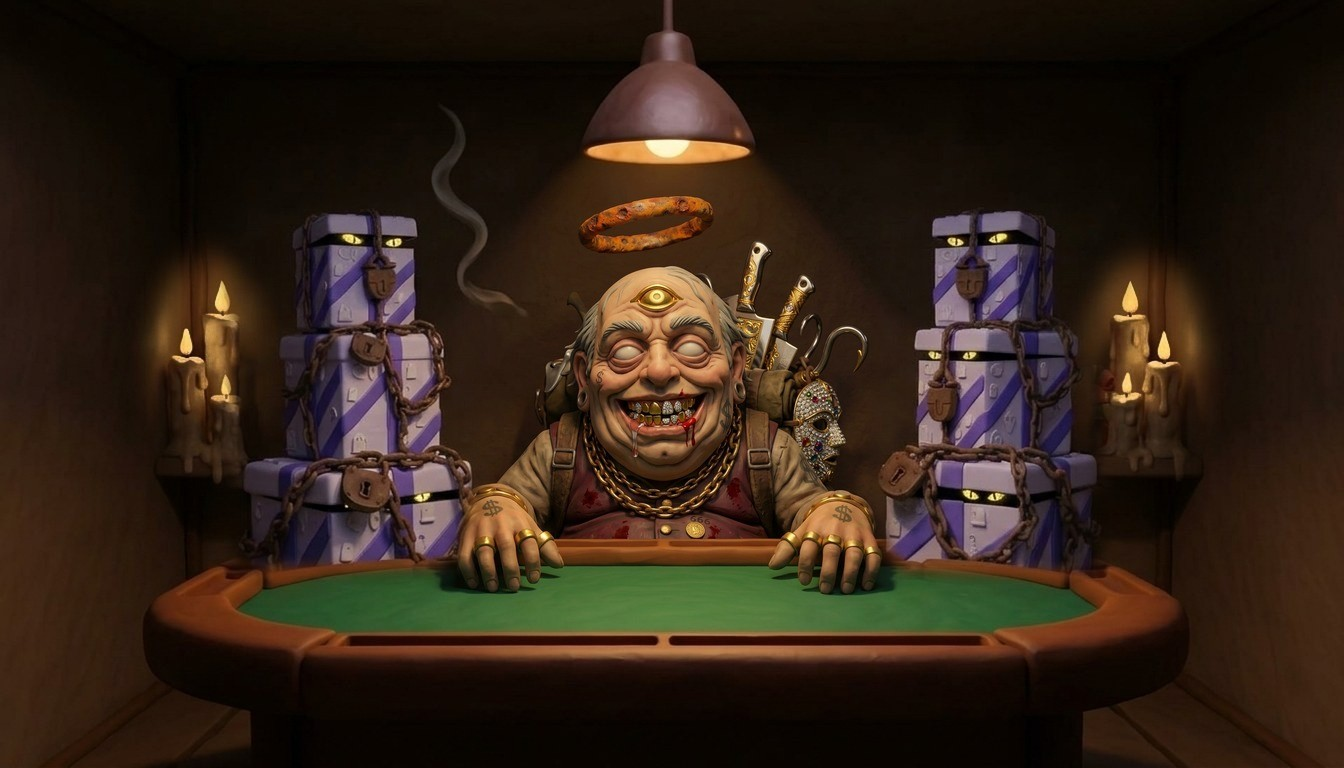
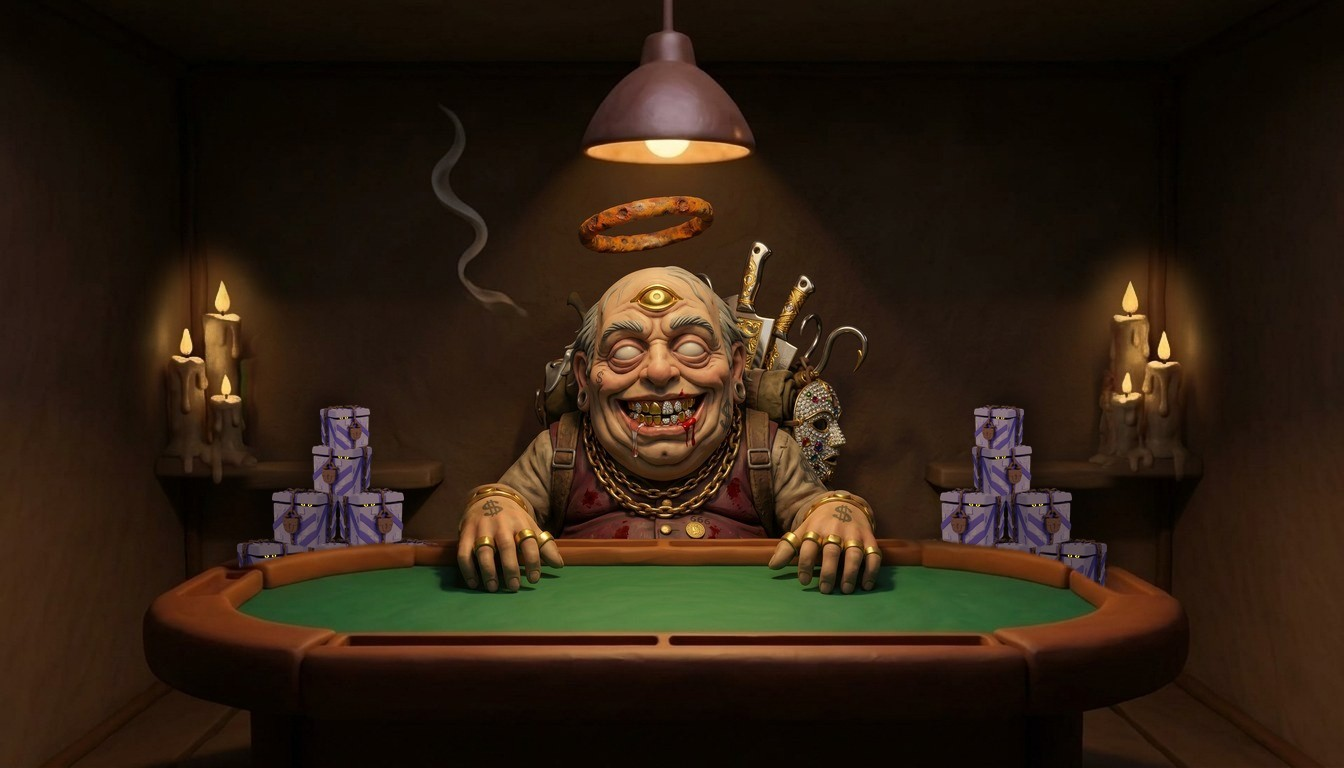
Peddler: tree Nightmare Boxes stacked behind the table and Peddler, room-lit, eyes under lids
Claude-Session: https://claude.ai/code/session_017UCt1yh6wM11RSMuh2VTku

Changed region(s): [[0.1562, 0.2812, 0.375, 0.75], [0.6562, 0.25, 0.8438, 0.7812], [0.1562, 0.4062, 0.1875, 0.4375]]

diff --git a/docs/index.html b/docs/index.html
@@ -484,7 +484,7 @@ button{font:inherit;color:inherit}
     </section>
 
     <section class="scene" id="s-peddler" data-crumb="The Peddler" data-back="inside">
-      <img class="bg" src="img/craps.jpg?v=9" alt="A dark private craps room sculpted in clay: the grinning three-eyed Peddler leans on a green felt craps table under a single hanging lamp, two piles of lavender chained Nightmare Boxes behind him, yellow eyes peeking from under the lids" width="1344" height="768">
+      <img class="bg" src="img/craps.jpg?v=10" alt="A dark private craps room sculpted in clay: the grinning three-eyed Peddler leans on a green felt craps table under a single hanging lamp, two piles of lavender chained Nightmare Boxes behind him, yellow eyes peeking from under the lids" width="1344" height="768">
       <div class="fx" id="fx-peddler" aria-hidden="true"></div>
       <div class="dz" id="dz" aria-hidden="true"></div>
       <div class="hand" id="hand"><img id="handFist" src="img/arm-fist.png?v=5" alt="" width="640" height="677"><img id="handOpen" src="img/arm-open.png?v=5" alt="" width="640" height="677"></div>

diff --git a/site/world/index.html b/site/world/index.html
@@ -484,7 +484,7 @@ button{font:inherit;color:inherit}
     </section>
 
     <section class="scene" id="s-peddler" data-crumb="The Peddler" data-back="inside">
-      <img class="bg" src="img/craps.jpg?v=9" alt="A dark private craps room sculpted in clay: the grinning three-eyed Peddler leans on a green felt craps table under a single hanging lamp, two piles of lavender chained Nightmare Boxes behind him, yellow eyes peeking from under the lids" width="1344" height="768">
+      <img class="bg" src="img/craps.jpg?v=10" alt="A dark private craps room sculpted in clay: the grinning three-eyed Peddler leans on a green felt craps table under a single hanging lamp, two piles of lavender chained Nightmare Boxes behind him, yellow eyes peeking from under the lids" width="1344" height="768">
       <div class="fx" id="fx-peddler" aria-hidden="true"></div>
       <div class="dz" id="dz" aria-hidden="true"></div>
       <div class="hand" id="hand"><img id="handFist" src="img/arm-fist.png?v=5" alt="" width="640" height="677"><img id="handOpen" src="img/arm-open.png?v=5" alt="" width="640" height="677"></div>

diff --git a/site/world/page.html b/site/world/page.html
@@ -479,7 +479,7 @@ button{font:inherit;color:inherit}
     </section>
 
     <section class="scene" id="s-peddler" data-crumb="The Peddler" data-back="inside">
-      <img class="bg" src="img/craps.jpg?v=9" alt="A dark private craps room sculpted in clay: the grinning three-eyed Peddler leans on a green felt craps table under a single hanging lamp, two piles of lavender chained Nightmare Boxes behind him, yellow eyes peeking from under the lids" width="1344" height="768">
+      <img class="bg" src="img/craps.jpg?v=10" alt="A dark private craps room sculpted in clay: the grinning three-eyed Peddler leans on a green felt craps table under a single hanging lamp, two piles of lavender chained Nightmare Boxes behind him, yellow eyes peeking from under the lids" width="1344" height="768">
       <div class="fx" id="fx-peddler" aria-hidden="true"></div>
       <div class="dz" id="dz" aria-hidden="true"></div>
       <div class="hand" id="hand"><img id="handFist" src="img/arm-fist.png?v=5" alt="" width="640" height="677"><img id="handOpen" src="img/arm-open.png?v=5" alt="" width="640" height="677"></div>
